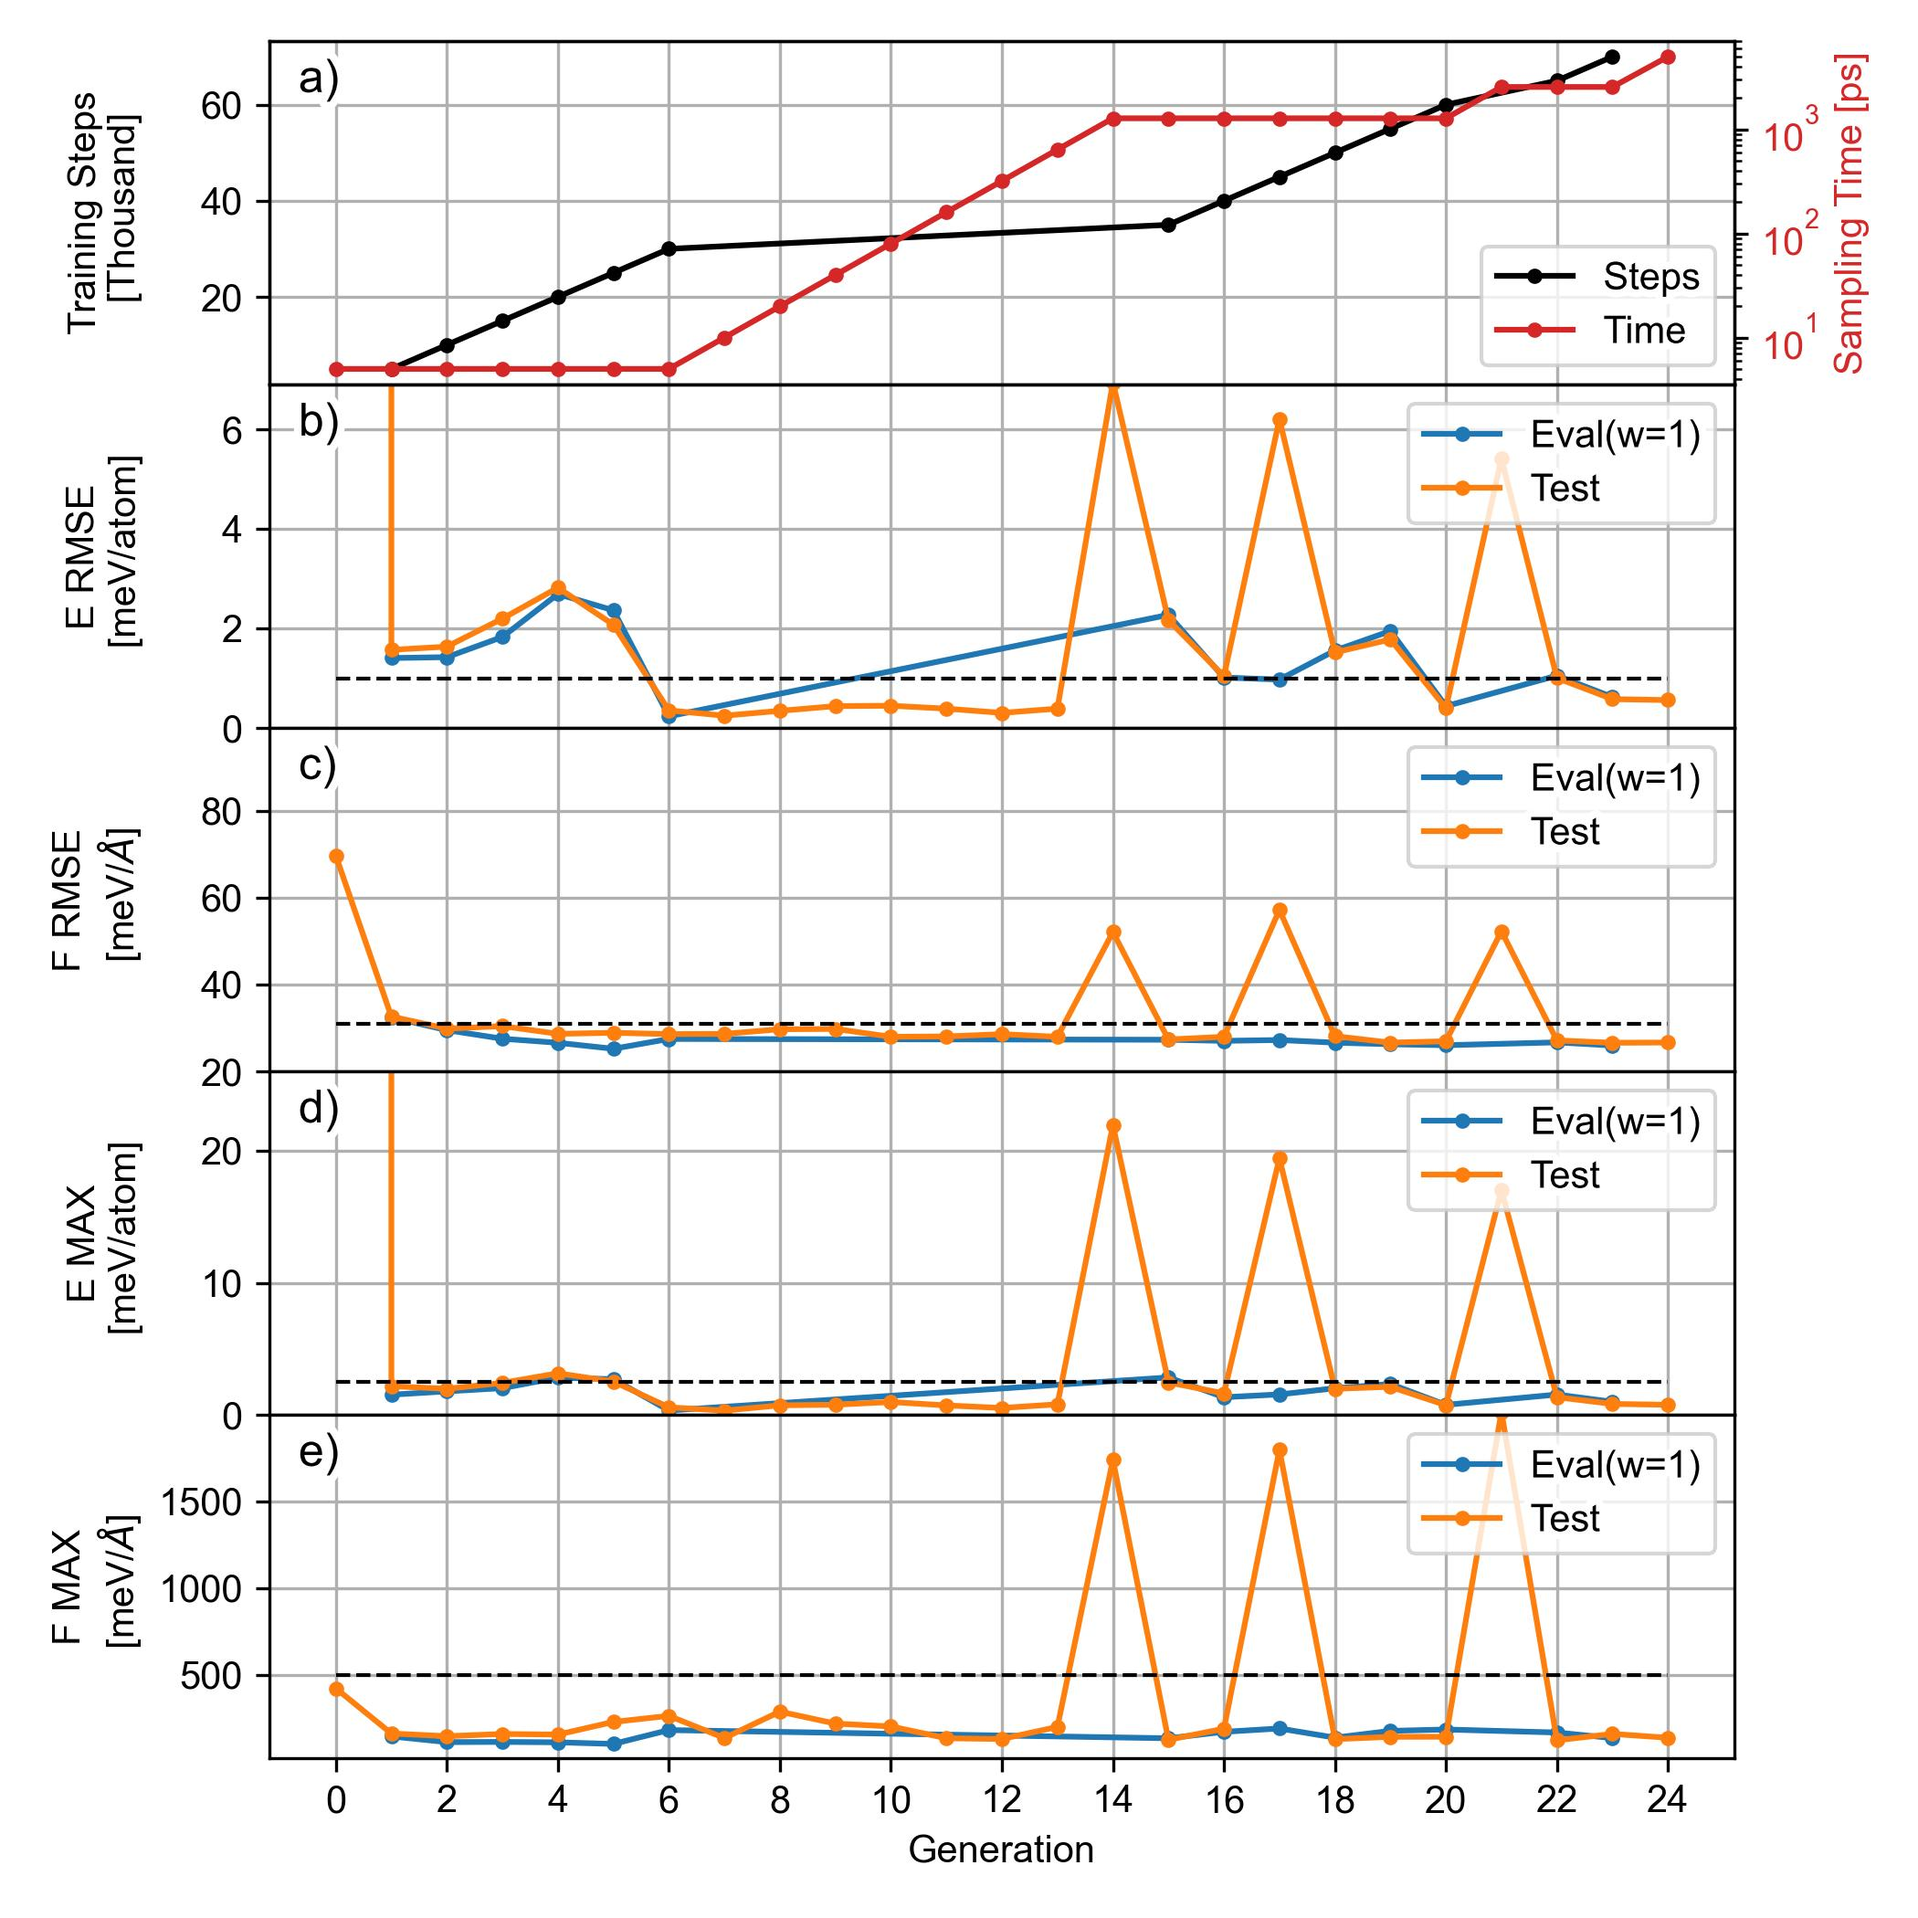
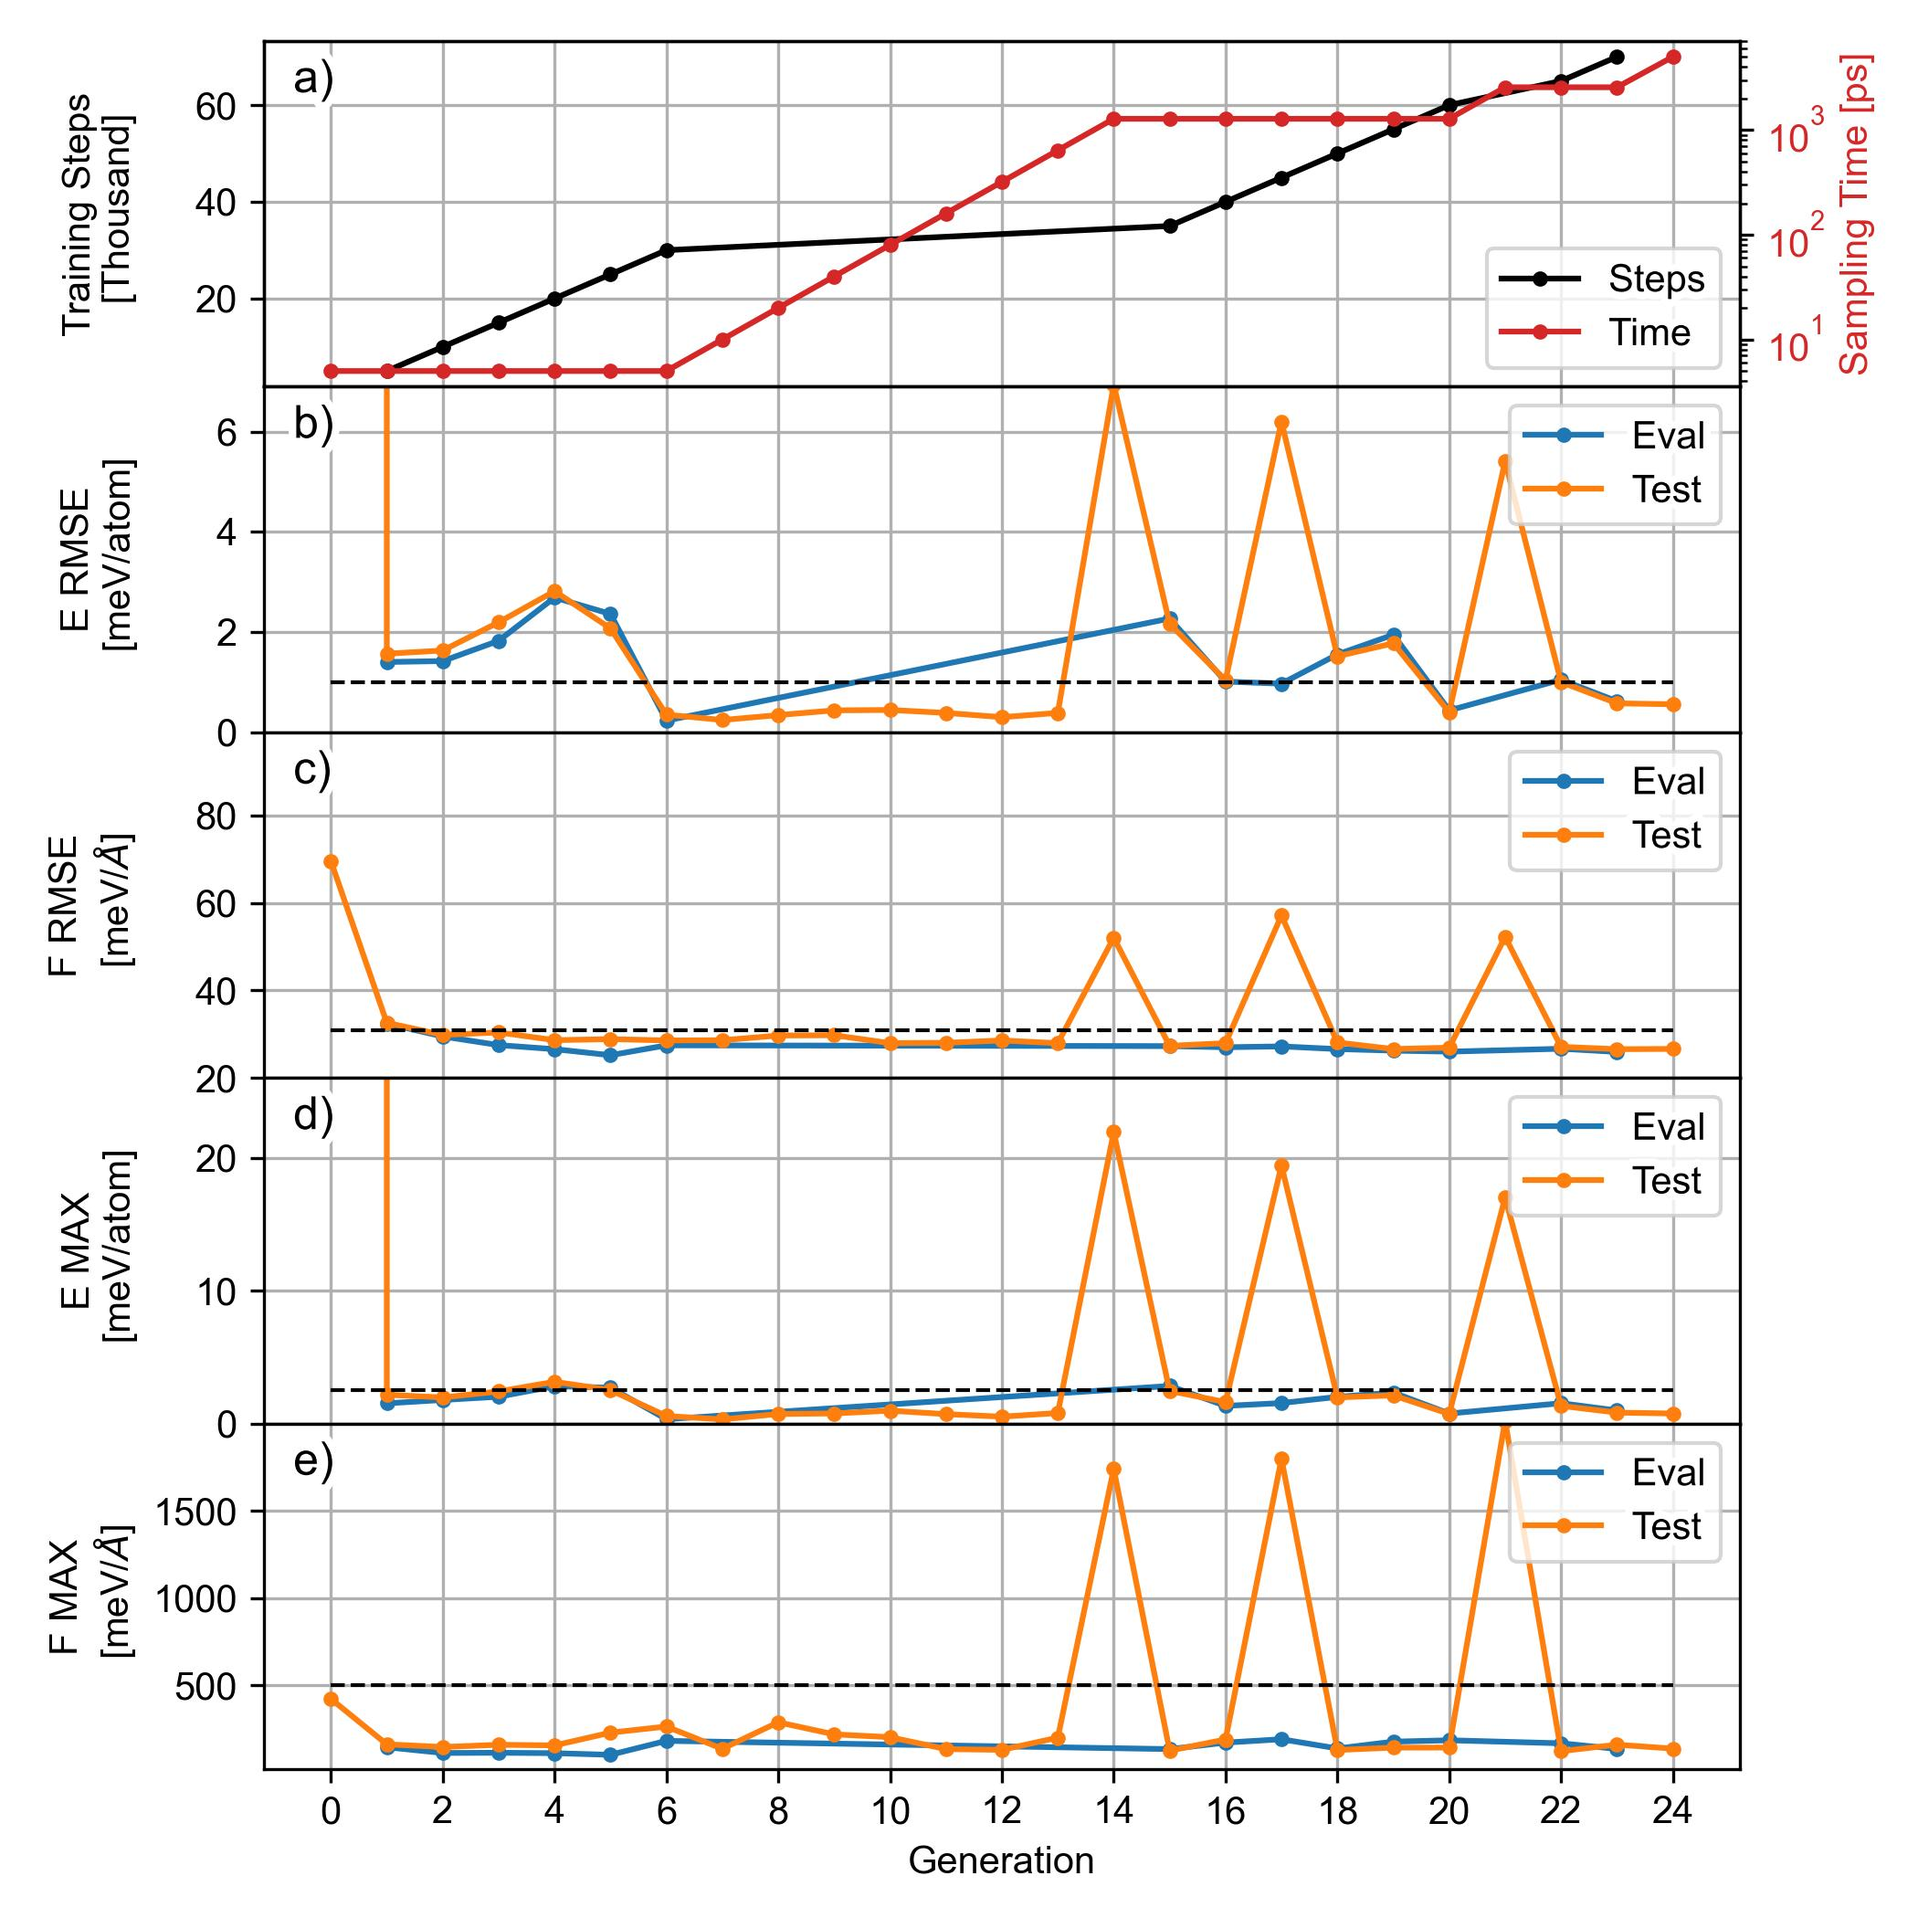
add weights

diff --git a/example/4_plotting/plotting.py b/example/4_plotting/plotting.py
@@ -189,10 +189,10 @@ def drawFinetuningCurve(nSeed):
     ax5.set_xticks(np.arange(0,np.max(listTestGen)+1,2))
     # ax1.set_xlim(-2,42)
     # ax1.set_ylim(0.1,9.9)
-    ax2.set_ylim(0,4.9)
+    ax2.set_ylim(0,6.9)
     ax3.set_ylim(20,99)
-    ax4.set_ylim(0,9)
-    ax5.set_ylim(20,699)
+    ax4.set_ylim(0,26)
+    ax5.set_ylim(20,1999)
     # tax.set_ylim(2e-1,2e3)
 
     leg1 = ax1.legend([l1, l2], ['Steps', 'Time'], loc=4, frameon=True)
@@ -218,108 +218,6 @@ def drawFinetuningCurve(nSeed):
     plt.savefig(fname=strOutFile, dpi=300)
     plt.close()
 
-# 
-def drawNetForceAndAtomicDress(nSeed):
-
-    import re
-    from glob import glob
-    import matplotlib.patheffects as pe
-
-    pinnacle_output_dir = FT_DIR / f"output-cp2k-from-model-seed{nSeed}"
-
-    # get net force results
-    listNetForce = []
-    listPiNNAppendFile = glob(f'{pinnacle_output_dir}/models/gen*/model1/append.log')
-    listPiNNAppendGen = [int(re.search('gen(\d+)', l)[1]) for l in listPiNNAppendFile]
-    for strFile in listPiNNAppendFile:
-        with open(strFile, "r") as f:
-            listLines = f.readlines()
-            assert "Net force per atom (meV/Ang/Atom) on whole set" in listLines[0]
-            dNetForcePerAtom_X = float(re.search(r"x=([+-]?\d+(?:\.\d+)?(?:[eE][+-]?\d+)?)", listLines[0])[1])
-            dNetForcePerAtom_Y = float(re.search(r"y=([+-]?\d+(?:\.\d+)?(?:[eE][+-]?\d+)?)", listLines[0])[1])
-            dNetForcePerAtom_Z = float(re.search(r"z=([+-]?\d+(?:\.\d+)?(?:[eE][+-]?\d+)?)", listLines[0])[1])
-            listNetForce.append([dNetForcePerAtom_X, dNetForcePerAtom_Y, dNetForcePerAtom_Z])
-    arrDataNetForce = np.array([[g,*e] for g, e in zip(listPiNNAppendGen, listNetForce)])
-    arrDataNetForce = arrDataNetForce[arrDataNetForce[:,0].argsort()]
-
-    # get e_dress changes over generations
-    import yaml
-    nMaxGen = np.max(listPiNNAppendGen)
-    listPiNNYMLFile = glob(f'{pinnacle_output_dir}/models/gen{nMaxGen}/model1/model/params.yml*')
-    listSavedTime = []
-    listHAtomicDress = []
-    listOAtomicDress = []
-    for strFile in listPiNNYMLFile:
-
-        listNameItems = strFile.split("/")[-1].split(".")
-        if len(listNameItems) < 3:
-            listSavedTime.append(np.nan)
-        else:
-            listSavedTime.append(int(listNameItems[-1]))
-
-        params = {}
-        with open(strFile, 'r') as f:
-            params = yaml.load(f, Loader=yaml.Loader)
-
-        dictDress = params["model"]["params"]["e_dress"]
-        listHAtomicDress.append(dictDress[1])
-        listOAtomicDress.append(dictDress[8])
-
-    arrHAtomicDress = np.array([[g,e] for g, e in zip(listSavedTime, listHAtomicDress)])
-    arrHAtomicDress = arrHAtomicDress[arrHAtomicDress[:,0].argsort()]
-
-    arrOAtomicDress = np.array([[g,e] for g, e in zip(listSavedTime, listOAtomicDress)])
-    arrOAtomicDress = arrOAtomicDress[arrOAtomicDress[:,0].argsort()]
-
-    # do the plot
-    f, (ax1, ax2, ax3) = plt.subplots(3, 1, figsize=[7, 5], 
-                                    sharex=True, gridspec_kw={'hspace':0})
-
-    l1, = ax1.plot(arrDataNetForce[:,0], arrDataNetForce[:,1], '.-')
-    l2, = ax1.plot(arrDataNetForce[:,0], arrDataNetForce[:,2], 'd-')
-    l3, = ax1.plot(arrDataNetForce[:,0], arrDataNetForce[:,3], 's-')
-    l4, = ax2.plot(arrDataNetForce[:,0], arrHAtomicDress[:,1][0:len(arrDataNetForce[:,0])], '.-')
-    l5, = ax3.plot(arrDataNetForce[:,0], arrOAtomicDress[:,1][0:len(arrDataNetForce[:,0])], '.-')
-
-    # threshold
-    ax1.plot([0,arrDataNetForce[:,0][-1]], [1.0,1.0], 'k--', lw=1)
-
-    ax1.grid()
-    ax2.grid()
-    ax3.grid()
-
-    ax1.set_ylabel('Net force\n [meV/$\AA$/atom]')
-    ax2.set_ylabel('Atomic dress\n [eV]')
-    ax3.set_ylabel('Atomic dress\n [eV]')
-    ax3.set_xlabel('Generation')
-
-    leg1 = ax1.legend([l1, l2, l3], ['X', 'Y', 'Z'], loc=1, frameon=True)
-    leg2 = ax2.legend([l4], ['H'],  loc=1, frameon=True)
-    leg3 = ax3.legend([l5], ['O'],  loc=1, frameon=True)
-
-    ax1.set_ylim(-0.3,1.1)
-    # ax2.set_ylim(20,99)
-    # ax3.set_ylim(0,9)
-
-    mype = [pe.withStroke(linewidth=4, foreground='w')]
-    for leg in [leg1, leg2, leg3]:
-        for t in leg.get_texts():
-            t.set_path_effects(mype)
-
-    for label, ax in zip('abc', (ax1, ax2, ax3)):
-        t = ax.text(0.02,0.95, f'{label})', transform=ax.transAxes, va='top',
-                    fontsize=12)
-        t.set_path_effects(mype)
-
-    f.align_ylabels()
-    plt.tight_layout()
-
-    strOutFile = WORK_DIR / f"net_force_e_dress_seed{nSeed}.jpg"
-    plt.savefig(fname=strOutFile, dpi=300)
-    plt.close()
-
-
 if __name__ == '__main__':
 
     drawFinetuningCurve(nSeed=4)
-    drawNetForceAndAtomicDress(nSeed=4)

diff --git a/bin/weight_utils.py b/bin/weight_utils.py
@@ -205,7 +205,6 @@ def analyse_after_train(model_abs_path, ds_abs_path, tfr_file_name):
         ("with weight < 0.1", weights < 0.1),
     ]
 
-    msg_list = []
     for desc, mask in cases:
         msg = f"after training on {tfr_file_name} set {desc}: "
         msg += compute_metrics(e_pred, e_label, f_pred, f_label, mask)
